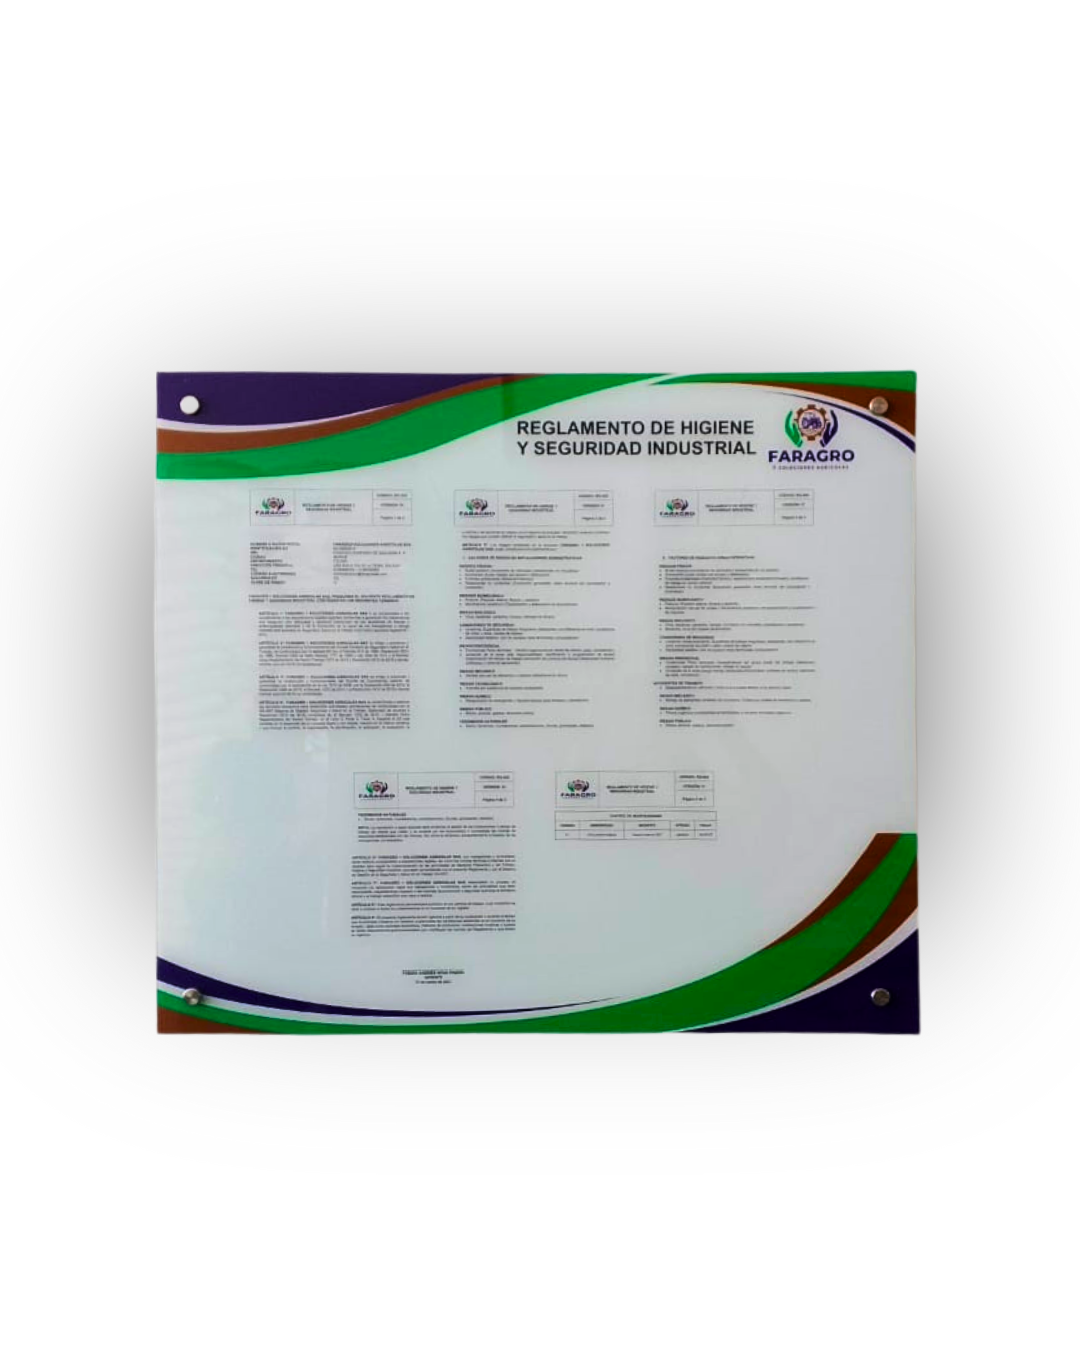
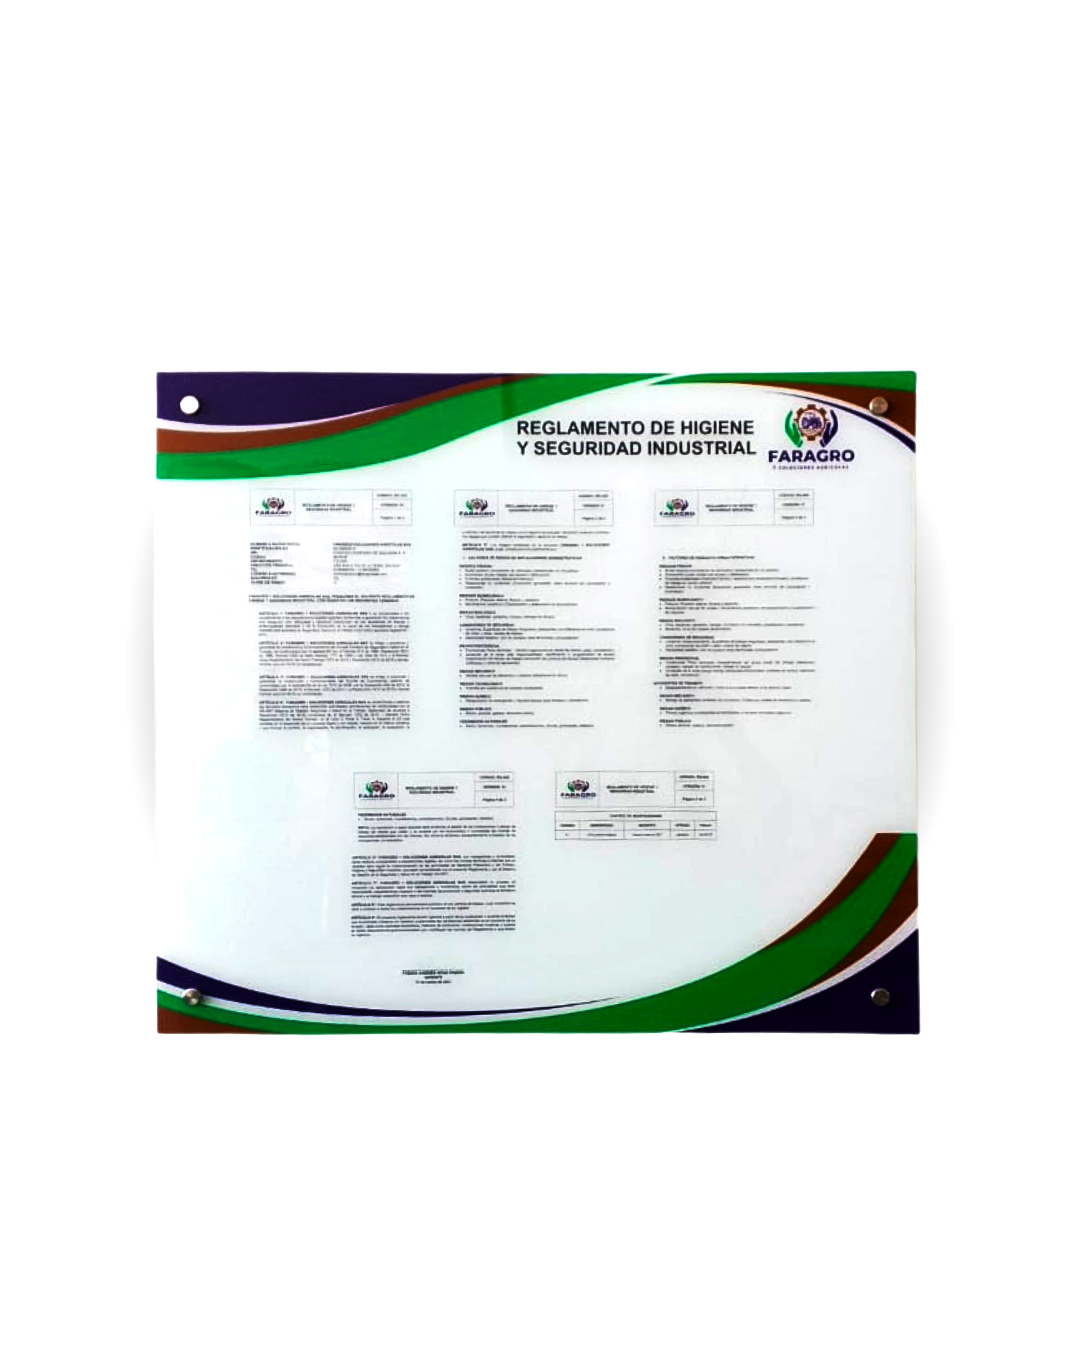
Blog

diff --git a/blog.html b/blog.html
@@ -93,7 +93,7 @@
   </article>
 
   <article class="blog-card">
-    <img src="assets/images/1000130411.jpg" loading="lazy">
+    <img src="assets/images/señalización_3.png" loading="lazy">
     <div class="content">
       <h3>Tipos de señalética obligatoria para negocios</h3>
       <p>Acá te comentamos que necesitas.</p>
